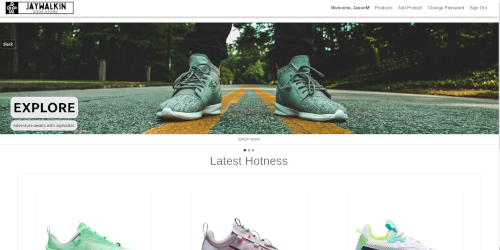
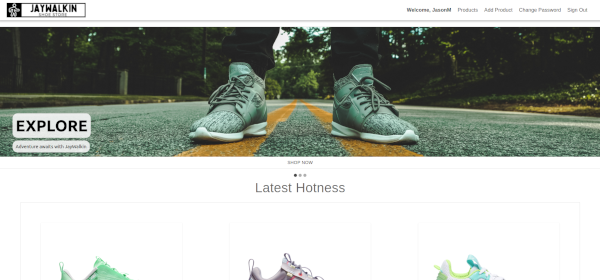
Updated header to hide on scroll down. Also working on base styling for Projects.jsx

diff --git a/client/src/screens/Projects.jsx b/client/src/screens/Projects.jsx
@@ -1,3 +1,6 @@
+import { useState } from 'react'
+import { Box, Modal, Button } from '@mui/material'
+import KeyboardArrowDownIcon from '@mui/icons-material/KeyboardArrowDown'
 import JWS from '../assets/jws-thumbnail.png'
 import PocketCaddie from '../assets/pocket-caddie-thumbnail.png'
 import JayWalkin from '../assets/jaywalkin-thumbnail.png'
@@ -5,68 +8,165 @@ import Hubbub from '../assets/hubbub-thumbnail.png'
 import { HashLink } from 'react-router-hash-link'
 import './Projects.css'
 
+const style = {
+  position: 'absolute',
+  top: '50%',
+  left: '50%',
+  transform: 'translate(-50%, -50%)',
+  width: 600,
+  bgcolor: 'background.paper',
+  border: '2px solid #000',
+  boxShadow: 24,
+  p: 4,
+}
+
 export default function Projects() {
+  const [open, setOpen] = useState(false)
+  const [open2, setOpen2] = useState(false)
+  const [open3, setOpen3] = useState(false)
+  const [open4, setOpen4] = useState(false)
+
+  const handleOpen = e => {
+    const { name } = e.target
+    if (name === 'hubbub-button') {
+      setOpen(true)
+    } else if (name === 'jaywalkin-button') {
+      setOpen2(true)
+    } else if (name === 'pocket-caddie-button') {
+      setOpen3(true)
+    } else if (name === 'jws-button') {
+      setOpen4(true)
+    }
+  }
+  const handleClose = () => {
+    setOpen(false)
+    setOpen2(false)
+    setOpen3(false)
+    setOpen4(false)
+  }
+
   return (
     <section id='projects' className='projects'>
+      <h1 className='title'>Projects</h1>
       <div className='projects-container'>
-        <div className='hubbub'>
+        <div className='project-card'>
           <div className='project-title'>Hubbub</div>
           <img src={Hubbub} className='project-img' alt='project-preview' />
-          <div className='project-stack'>
-            <div className='tech-stack'>Tech Stack</div>
-            <ul>
-              <li>Ruby on Rails</li>
-              <li>React JS</li>
-              <li>Styling - MUI</li>
-            </ul>
-          </div>
+          <div className='project-description'>This is a description</div>
+          <Button variant='standard' name='hubbub-button' onClick={handleOpen}>
+            Learn more
+          </Button>
+          <Modal
+            open={open}
+            onClose={handleClose}
+            aria-labelledby='hubbub-modal'
+          >
+            <Box sx={style}>
+              <div className='project-stack'>
+                <div className='tech-stack'>Tech Stack</div>
+                <ul>
+                  <li>Ruby on Rails</li>
+                  <li>React JS</li>
+                  <li>Styling - MUI</li>
+                </ul>
+              </div>
+            </Box>
+          </Modal>
         </div>
-        <div className='jay-walkin'>
+        <div className='project-card'>
           <div className='project-title'>Jay Walkin</div>
           <img src={JayWalkin} className='project-img' alt='project-preview' />
-          <div className='project-stack'>
-            <div className='tech-stack'>Tech Stack</div>
-            <ul>
-              <li>React JS</li>
-              <li>Express</li>
-              <li>Mongo DB</li>
-              <li>Node.js</li>
-              <li>Styling - MUI</li>
-            </ul>
-          </div>
+          <div className='project-description'>This is a description</div>
+          <Button
+            variant='standard'
+            name='jaywalkin-button'
+            onClick={handleOpen}
+          >
+            Learn more
+          </Button>
+          <Modal
+            open={open2}
+            onClose={handleClose}
+            aria-labelledby='jaywalkin-modal'
+          >
+            <Box sx={style}>
+              <div className='project-stack'>
+                <div className='tech-stack'>Tech Stack</div>
+                <ul>
+                  <li>React JS</li>
+                  <li>Express</li>
+                  <li>Mongo DB</li>
+                  <li>Node.js</li>
+                  <li>Styling - MUI</li>
+                </ul>
+              </div>
+            </Box>
+          </Modal>
         </div>
-        <div className='pocket-caddie'>
+        <div className='project-card'>
           <div className='project-title'>Pocket Caddie</div>
           <img
             src={PocketCaddie}
             className='project-img'
             alt='project-preview'
           />
-          <div className='project-stack'>
-            <div className='tech-stack'>Tech Stack</div>
-            <ul>
-              <li>React JS</li>
-              <li>Airtable</li>
-              <li>Styling - Tailwind CSS</li>
-            </ul>
-          </div>
+          <div className='project-description'>This is a description</div>
+          <Button
+            variant='standard'
+            name='pocket-caddie-button'
+            onClick={handleOpen}
+          >
+            Learn more
+          </Button>
+          <Modal
+            open={open3}
+            onClose={handleClose}
+            aria-labelledby='hubbub-modal'
+          >
+            <Box sx={style}>
+              <div className='project-stack'>
+                <div className='tech-stack'>Tech Stack</div>
+                <ul>
+                  <li>React JS</li>
+                  <li>Airtable</li>
+                  <li>Styling - Tailwind CSS</li>
+                </ul>
+              </div>
+            </Box>
+          </Modal>
         </div>
-        <div className='jws'>
+        <div className='project-card'>
           <div className='project-title'>JWS</div>
           <img src={JWS} className='project-img' alt='project-preview' />
-          <div className='project-description'>description here</div>
-          <div className='project-stack'>
-            <div className='tech-stack'>Tech Stack</div>
-            <ul>
-              <li>JS</li>
-              <li>Styling - Vanilla CSS</li>
-            </ul>
-          </div>
+          <div className='project-description'>This is a description</div>
+          <Button variant='standard' name='jws-button' onClick={handleOpen}>
+            Learn more
+          </Button>
+          <Modal
+            open={open4}
+            onClose={handleClose}
+            aria-labelledby='hubbub-modal'
+          >
+            <Box sx={style}>
+              <div className='project-stack'>
+                <div className='tech-stack'>Tech Stack</div>
+                <ul>
+                  <li>JS</li>
+                  <li>Styling - Vanilla CSS</li>
+                </ul>
+              </div>
+            </Box>
+          </Modal>
         </div>
       </div>
-      <HashLink smooth to='#contact'>
-        Contact me!
-      </HashLink>
+      <div className='about-bottom-link'>
+        <HashLink smooth to='#contact'>
+          Contact me!
+          <div>
+            <KeyboardArrowDownIcon />
+          </div>
+        </HashLink>
+      </div>
     </section>
   )
 }

diff --git a/client/src/components/header/Header.jsx b/client/src/components/header/Header.jsx
@@ -1,24 +1,27 @@
 import { NavHashLink } from 'react-router-hash-link'
+import HideOnScroll from '../HideOnScroll'
 import './Header.css'
 
 export default function Header() {
   return (
-    <header className='header'>
-      <div className='logo'>Jason Moritz</div>
-      <div className='nav-link-container'>
-        <NavHashLink className='nav-page-link' smooth to='#home'>
-          Home
-        </NavHashLink>
-        <NavHashLink className='nav-page-link' smooth to='#about'>
-          About
-        </NavHashLink>
-        <NavHashLink className='nav-page-link' smooth to='#projects'>
-          Projects
-        </NavHashLink>
-        <NavHashLink className='nav-page-link' smooth to='#contact'>
-          Contact
-        </NavHashLink>
-      </div>
-    </header>
+    <HideOnScroll>
+      <header className='header'>
+        <div className='logo'>Jason Moritz</div>
+        <div className='nav-link-container'>
+          <NavHashLink className='nav-page-link' smooth to='#home'>
+            Home
+          </NavHashLink>
+          <NavHashLink className='nav-page-link' smooth to='#about'>
+            About
+          </NavHashLink>
+          <NavHashLink className='nav-page-link' smooth to='#projects'>
+            Projects
+          </NavHashLink>
+          <NavHashLink className='nav-page-link' smooth to='#contact'>
+            Contact
+          </NavHashLink>
+        </div>
+      </header>
+    </HideOnScroll>
   )
 }

diff --git a/client/src/screens/Projects.css b/client/src/screens/Projects.css
@@ -1,12 +1,29 @@
+.projects {
+  background-color: #263a54;
+  color: #f9f8f8;
+  position: relative;
+  display: flex;
+  flex-direction: column;
+  align-items: center;
+  padding-top: 6rem;
+  min-height: fit-content;
+}
+
 .projects-container {
-  padding-top: 10rem;
   display: grid;
   grid-template-columns: repeat(2, 1fr);
 }
 
+.project-card {
+  border: solid 2px black;
+  width: 30vw;
+}
+
+.project-title {
+  font-size: x-large;
+}
 .project-img {
   height: 200px;
   object-fit: cover;
-  object-position: left;
-  overflow: hidden;
+  object-position: center;
 }

diff --git a/client/src/screens/Home.css b/client/src/screens/Home.css
@@ -1,4 +1,5 @@
 .home {
+  position: relative;
   background-color: #263a54;
   color: #f9f8f8;
   display: flex;
@@ -9,7 +10,8 @@
 .welcome-text {
   font-size: 5rem;
   width: 75%;
-  padding-top: 5rem;
+  padding: 8rem 0 0 3rem;
+  text-align: left;
 }
 
 .welcome-name {
@@ -17,12 +19,13 @@
 }
 
 .welcome-text-span {
-  font-size: 3rem;
+  font-size: 2rem;
 }
 
 .bottom-link {
   position: absolute;
   bottom: 0;
+  padding-bottom: 3rem;
   display: inline-flex;
   justify-content: center;
   align-items: center;

diff --git a/client/src/components/header/Header.css b/client/src/components/header/Header.css
@@ -1,6 +1,7 @@
 .header {
-  position: sticky;
-  top: 0;
+  position: fixed;
+  width: 100vw;
+  right: 0;
   z-index: 100;
   display: flex;
   flex-shrink: 0;
@@ -22,9 +23,17 @@
 .nav-link-container {
   display: flex;
   align-items: flex-end;
-  font-size: 2rem;
+  font-size: 1.5rem;
 }
 
 .nav-page-link {
   padding: 0 1.5rem;
 }
+/* 
+.nav-page-link:hover:before {
+  transition: color 0.5s, transform 0.5s;
+}
+
+.nav-page-link:hover:after {
+  transform: translate3d(0px, 2px, 0);
+} */

diff --git a/client/src/screens/About.css b/client/src/screens/About.css
@@ -10,7 +10,7 @@
 .about-content-container {
   padding-top: 10rem;
   padding-left: 5rem;
-  text-align: left;
+  text-align: right;
   width: 75%;
 }
 
@@ -31,6 +31,5 @@
   font-size: 2rem;
   color: #d9a966;
   /* border-bottom: solid 2px #d9a966; */
-  padding: 6px 16px;
-  transition: 400;
+  padding-bottom: 3rem;
 }

diff --git a/client/src/components/HideOnScroll.jsx b/client/src/components/HideOnScroll.jsx
@@ -1,0 +1,11 @@
+import { useScrollTrigger, Slide } from '@mui/material'
+
+export default function HideOnScroll(props) {
+  const { children } = props
+  const trigger = useScrollTrigger()
+  return (
+    <Slide in={!trigger} appear={false} direction='down'>
+      {children}
+    </Slide>
+  )
+}

diff --git a/client/src/screens/Contact.jsx b/client/src/screens/Contact.jsx
@@ -4,7 +4,8 @@ import { Link } from 'react-router-dom'
 export default function Contact() {
   return (
     <section id='contact' className='contact'>
-      <div>Contact Info</div>
+      <h1 className='title'>Contact</h1>
+
       <div>
         <div>
           Email:
